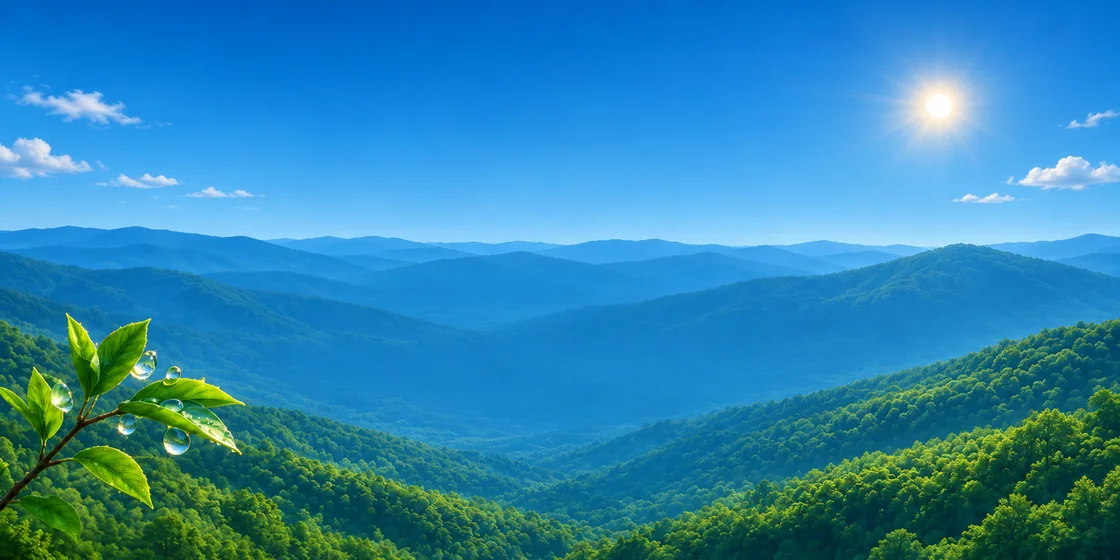
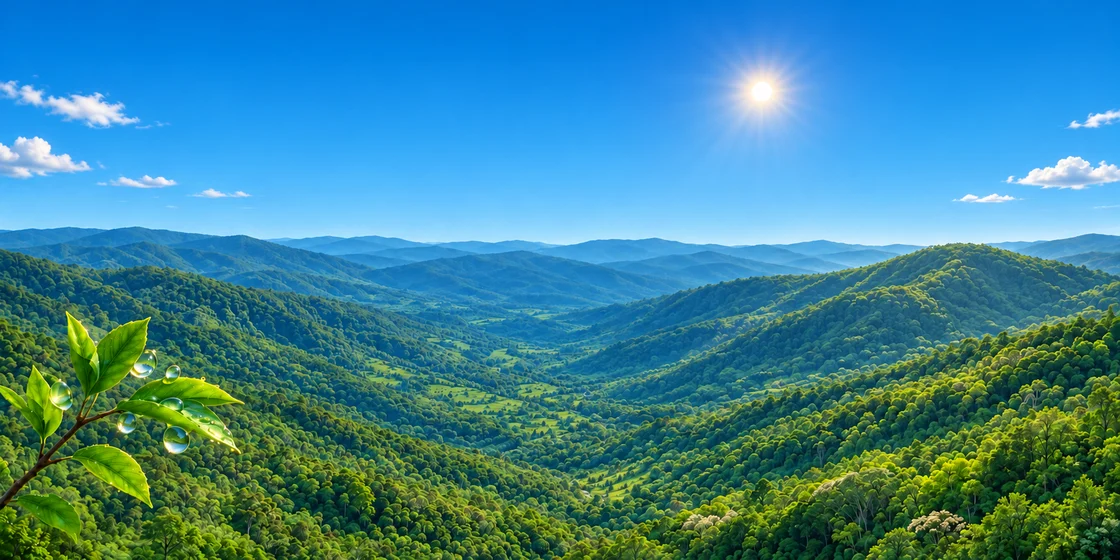
Publica paisaje soleado y fases lunares en el login

diff --git a/src/app/login/LoginVerseCard.tsx b/src/app/login/LoginVerseCard.tsx
@@ -1,13 +1,14 @@
 import { BookOpen, Cloud, CloudFog, CloudDrizzle, CloudLightning, CloudMoon, CloudRain, CloudSnow, CloudSun, Moon, Sun } from 'lucide-react';
 import { useEffect, useState } from 'react';
 import { CALI_WEATHER_REFRESH_MS, isCurrentCaliWeather, type CaliWeather } from '@/lib/caliWeather';
+import LoginMoon from './LoginMoon';
 import styles from './login.module.css';
 import weatherStyles from './LoginWeather.module.css';
 
 const landscapes = {
   morning: '/login-verse-sunrise.webp',
   midday: '/login-verse-midday.webp',
-  night: '/login-verse-night.webp',
+  night: '/login-verse-night-sky.webp',
   cloudy: '/login-verse-cloudy.webp',
   'cloudy-night': '/login-verse-cloudy.webp',
   rain: '/login-verse-rain.webp',
@@ -36,13 +37,20 @@ function useCaliWeather() {
 
   useEffect(() => {
     let request: AbortController | undefined;
-    let lastCheck = -Infinity;
+    let timer: number | undefined;
+    let nextCheck = 0;
 
     const refresh = async () => {
+      window.clearTimeout(timer);
       if (document.visibilityState !== 'visible' || request) return;
       setWeather(previous => previous && isCurrentCaliWeather(previous.observedAt) ? previous : undefined);
-      if (Date.now() - lastCheck < CALI_WEATHER_REFRESH_MS) return;
-      lastCheck = Date.now();
+      const now = Date.now();
+      if (now < nextCheck) {
+        timer = window.setTimeout(refresh, nextCheck - now);
+        return;
+      }
+
+      nextCheck = now + CALI_WEATHER_REFRESH_MS;
       const controller = new AbortController();
       request = controller;
       try {
@@ -54,16 +62,18 @@ function useCaliWeather() {
         // Weather is optional. The hour-based landscape is always available.
       } finally {
         request = undefined;
+        if (!controller.signal.aborted && document.visibilityState === 'visible') {
+          timer = window.setTimeout(refresh, Math.max(0, nextCheck - Date.now()));
+        }
       }
     };
 
     void refresh();
-    const timer = window.setInterval(refresh, CALI_WEATHER_REFRESH_MS);
     document.addEventListener('visibilitychange', refresh);
     window.addEventListener('pageshow', refresh);
     return () => {
       request?.abort();
-      window.clearInterval(timer);
+      window.clearTimeout(timer);
       document.removeEventListener('visibilitychange', refresh);
       window.removeEventListener('pageshow', refresh);
     };
@@ -128,19 +138,21 @@ export default function LoginVerseCard() {
 
   return (
     <blockquote className={styles.verse} aria-label="Versículo">
-      <div className={styles.verseLandscape} data-transition={Boolean(scene?.previous)} aria-hidden="true">
+      <div className={styles.verseLandscape} data-transition={Boolean(scene?.previous)}>
         {scene && [scene.previous, scene.current].map(landscape => landscape && (
           <span
             key={landscape}
             className={landscape.endsWith('-night') ? `${styles.verseLandscapeLayer} ${weatherStyles.night}` : styles.verseLandscapeLayer}
             data-landscape={landscape}
             data-current={landscape === scene.current}
+            aria-hidden={landscape !== scene.current}
             style={{ backgroundImage: `url(${landscapes[landscape]})` }}
-          />
+          >
+            {landscape === 'night' && <LoginMoon />}
+          </span>
         ))}
       </div>
       <div className={weatherStyles.header}>
-        <div className={styles.verseEmblem} aria-hidden="true"><span><BookOpen size={21} strokeWidth={1.6} /></span></div>
         {weather && condition && WeatherIcon && (
           <a
             className={weatherStyles.badge}
@@ -148,13 +160,13 @@ export default function LoginVerseCard() {
             target="_blank"
             rel="noopener noreferrer"
             aria-label={`Cali, ${weather.temperature} grados Celsius. ${condition.label}. Datos de Open-Meteo.`}
-            title={`${condition.label} en Cali · Datos de Open-Meteo`}
+            title={`${condition.label} en Cali`}
           >
             <span className={weatherStyles.temperature}>
               <WeatherIcon size={16} strokeWidth={1.65} aria-hidden="true" />
               {weather.temperature}°C
             </span>
-            <span className={weatherStyles.source}>Cali · Open-Meteo</span>
+            <span className={weatherStyles.source}>Cali</span>
           </a>
         )}
       </div>

diff --git a/src/app/login/LoginMoon.tsx b/src/app/login/LoginMoon.tsx
@@ -1,0 +1,82 @@
+import { useEffect, useState } from 'react';
+import styles from './LoginMoon.module.css';
+
+const COLOMBIA_OFFSET_HOURS = -5;
+const PRIMARY_PHASES = ['Luna nueva', 'Cuarto creciente', 'Luna llena', 'Cuarto menguante'];
+const INTERMEDIATE_PHASES = ['Luna creciente', 'Luna gibosa creciente', 'Luna gibosa menguante', 'Luna menguante'];
+const percent = new Intl.NumberFormat('es-CO', { style: 'percent' });
+
+type LunarPhase = {
+  name: string;
+  fraction: number;
+  waxing: boolean;
+};
+
+function illuminatedDisk(fraction: number, waxing: boolean) {
+  const side = waxing ? 1 : -1;
+  const segments = 24;
+  const arc = Array.from({ length: segments + 1 }, (_, index) => {
+    const angle = Math.PI * index / segments;
+    return { x: 50 * side * Math.sin(angle), y: 50 - 50 * Math.cos(angle) };
+  });
+  const edge = arc.map(({ x, y }) => `${(50 + x).toFixed(2)}% ${y.toFixed(2)}%`);
+  // Project the curved boundary between sunlight and shadow onto the lunar disk.
+  const terminator = arc.reverse().map(({ x, y }) =>
+    `${(50 + x * (1 - 2 * fraction)).toFixed(2)}% ${y.toFixed(2)}%`);
+  return `polygon(${[...edge, ...terminator].join(',')})`;
+}
+
+export default function LoginMoon() {
+  const [phase, setPhase] = useState<LunarPhase>();
+
+  useEffect(() => {
+    let disposed = false;
+    let timer: number | undefined;
+    let update: (() => void) | undefined;
+
+    void import('astronomy-engine').then(({ Body, Illumination, MoonPhase, SearchMoonQuarter }) => {
+      if (disposed) return;
+      update = () => {
+        if (document.visibilityState !== 'visible') return;
+        const now = new Date();
+        const localDay = new Date(now.getTime() + COLOMBIA_OFFSET_HOURS * 3_600_000);
+        const dayStart = new Date(localDay.setUTCHours(-COLOMBIA_OFFSET_HOURS, 0, 0, 0));
+        const nextQuarter = SearchMoonQuarter(dayStart);
+        const quarterIsToday = nextQuarter.time.date.getTime() - dayStart.getTime() < 86_400_000;
+        const angle = MoonPhase(now);
+
+        setPhase({
+          name: quarterIsToday ? PRIMARY_PHASES[nextQuarter.quarter] : INTERMEDIATE_PHASES[Math.floor(angle / 90)],
+          fraction: Illumination(Body.Moon, now).phase_fraction,
+          waxing: angle < 180,
+        });
+      };
+      update();
+      timer = window.setInterval(update, 5 * 60_000);
+    }).catch(() => {
+      // The night landscape can still render if the ephemeris chunk fails to load.
+    });
+
+    const refresh = () => update?.();
+    document.addEventListener('visibilitychange', refresh);
+    window.addEventListener('pageshow', refresh);
+    return () => {
+      disposed = true;
+      window.clearInterval(timer);
+      document.removeEventListener('visibilitychange', refresh);
+      window.removeEventListener('pageshow', refresh);
+    };
+  }, []);
+
+  if (!phase) return null;
+
+  return (
+    <span className={styles.moon} role="img" aria-label={`${phase.name}, ${percent.format(phase.fraction)} de iluminación`}>
+      {phase.fraction >= .008 && (
+        <span className={styles.disk}>
+          <span className={styles.light} style={{ clipPath: illuminatedDisk(phase.fraction, phase.waxing) }} />
+        </span>
+      )}
+    </span>
+  );
+}

diff --git a/src/app/login/login.module.css b/src/app/login/login.module.css
@@ -80,7 +80,7 @@
   color: #fff;
   text-align: center;
 }
-.verseLandscape, .verseLandscapeLayer, .verseLandscape::after {
+.verseLandscape, .verseLandscapeLayer, .verseLandscapeLayer::after, .verseLandscape::after {
   position: absolute;
   inset: 0;
   border-radius: inherit;
@@ -92,17 +92,22 @@
   animation: verse-landscape-in 650ms ease-in-out both;
 }
 @keyframes verse-landscape-in { from { opacity: 0; } to { opacity: 1; } }
-.verseLandscape::after {
+.verseLandscapeLayer::after {
   content: '';
   background:
     radial-gradient(ellipse at 49% 52%, rgb(3 33 66 / 68%), rgb(8 43 81 / 22%) 68%, transparent 100%),
     linear-gradient(0deg, rgb(2 25 58 / 28%), transparent 70%);
+}
+.verseLandscapeLayer[data-landscape='midday']::after {
+  background:
+    radial-gradient(ellipse 54% 32% at 50% 52%, rgb(4 27 48 / 59%) 23%, rgb(4 27 48 / 49%) 55%, transparent 100%),
+    linear-gradient(0deg, rgb(2 25 38 / 20%), transparent 35%);
+}
+.verseLandscape::after {
+  content: '';
   box-shadow: inset 0 0 0 1px rgb(241 253 255 / 38%), inset 0 0 12px rgb(117 221 255 / 40%);
 }
-.verseEmblem { display: flex; align-items: center; justify-content: center; gap: 8px; width: min(100%, 192px); }
-.verseEmblem::before, .verseEmblem::after { content: ''; flex: 1; height: 1px; border-radius: 4px; background: linear-gradient(90deg, transparent, #cbf6ff); box-shadow: 0 0 5px #7cdcf980; }
-.verseEmblem::after { transform: scaleX(-1); }
-.verseEmblem span, .verse cite {
+.verse cite {
   display: inline-flex;
   align-items: center;
   justify-content: center;
@@ -112,7 +117,6 @@
   background: linear-gradient(145deg, rgb(60 148 208 / 70%), rgb(13 67 119 / 83%));
   box-shadow: inset 0 0 6px #9ae6ff75, 0 0 8px #7bdefa75;
 }
-.verseEmblem span { width: 53px; height: 31px; }
 .verseReading { align-self: center; display: grid; justify-items: center; gap: 5px; min-width: 0; }
 .verseText { font: italic 500 clamp(16px, 4.65vw, 23px) / 1.36 'Login Lora', Georgia, serif; text-wrap: balance; overflow-wrap: anywhere; color: #fff; text-shadow: 0 1px 3px #04162e, 0 2px 10px #06274a; }
 .verseText > span { color: #a3e8ff; font: italic 700 1.46em / 0 Georgia, serif; vertical-align: -.04em; }

diff --git a/src/app/login/LoginMoon.module.css b/src/app/login/LoginMoon.module.css
@@ -1,0 +1,31 @@
+.moon {
+  position: absolute;
+  top: 22%;
+  left: 74%;
+  width: clamp(22px, 7%, 32px);
+  aspect-ratio: 1;
+  transform: translate(-50%, -50%);
+}
+
+.disk, .disk::before, .light {
+  position: absolute;
+  inset: 0;
+  border-radius: 50%;
+}
+
+.disk::before, .light {
+  background: url('/login-verse-night.webp') 85.7% 15.3% / 1600% 800% no-repeat;
+}
+
+.disk::before {
+  content: '';
+  filter: brightness(.31) saturate(.6);
+  opacity: .25;
+}
+
+.light { filter: saturate(.72) brightness(1.2); }
+.disk { filter: drop-shadow(0 0 5px rgb(166 214 255 / 44%)); }
+
+@media (max-width: 520px) {
+  .moon { top: 18%; left: 18%; }
+}

diff --git a/src/app/login/LoginWeather.module.css b/src/app/login/LoginWeather.module.css
@@ -1,19 +1,14 @@
 .header {
-  display: grid;
-  grid-template-columns: minmax(84px, 1fr) minmax(53px, 192px) minmax(84px, 1fr);
+  display: flex;
+  justify-content: flex-end;
   align-items: center;
-  justify-items: center;
   width: 100%;
   min-height: 41px;
 }
 
-.header > :first-child { grid-column: 2; }
-
 .badge {
-  grid-column: 3;
   display: grid;
   justify-items: center;
-  justify-self: end;
   gap: 2px;
   padding: 5px 8px;
   border: 1px solid rgb(196 243 255 / 78%);
